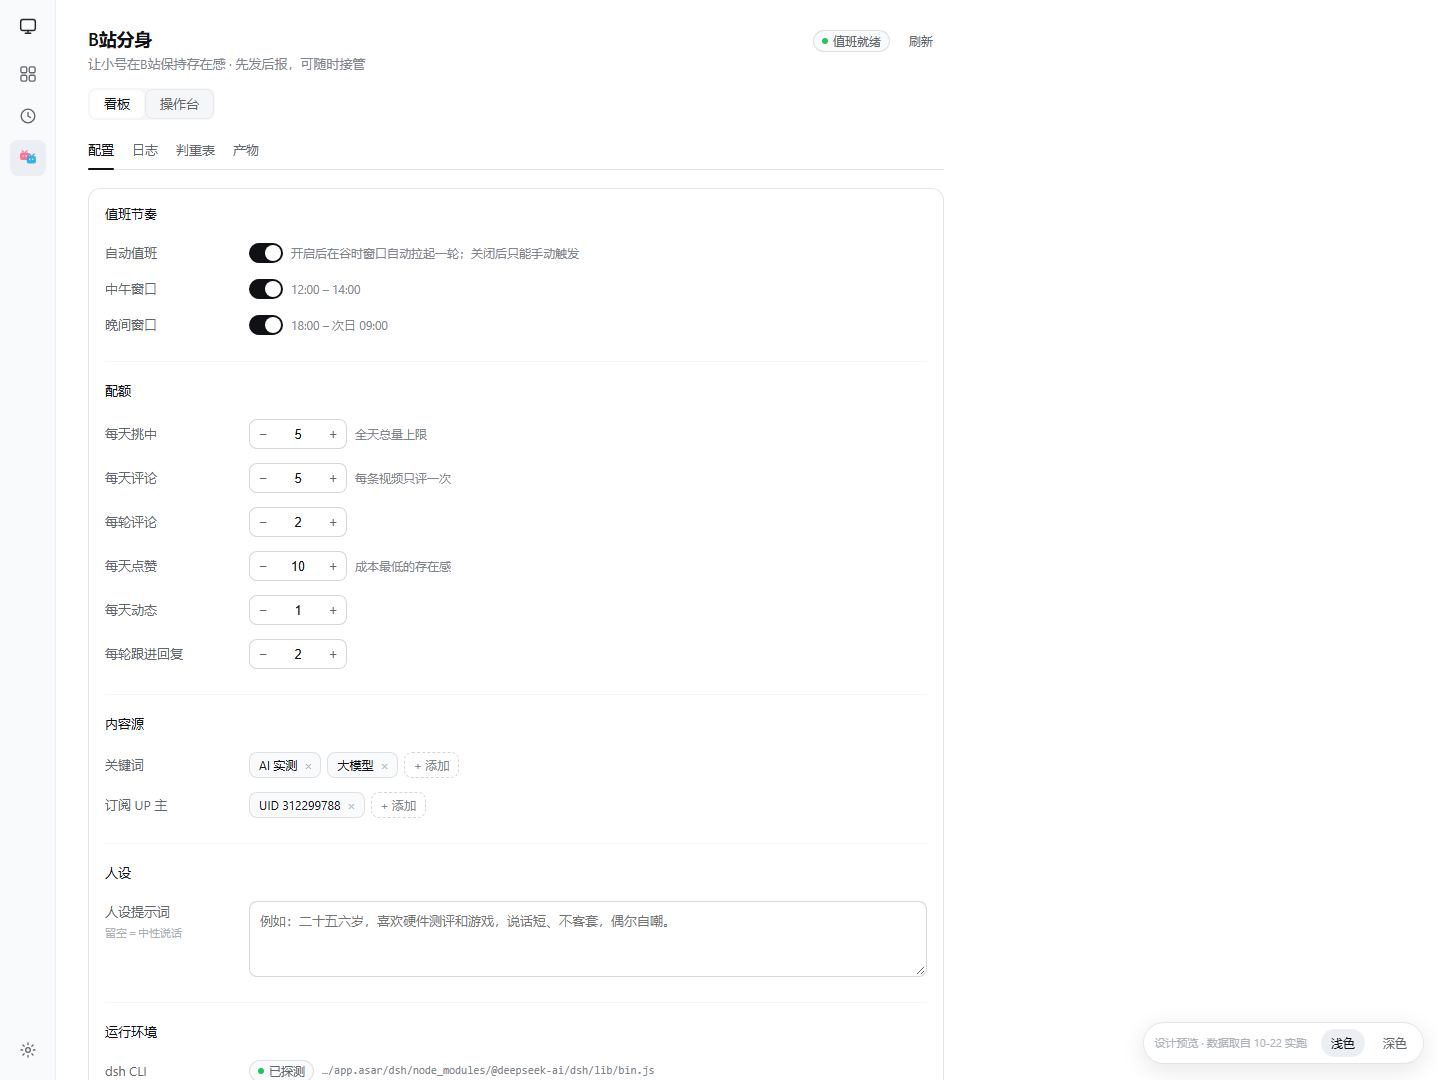
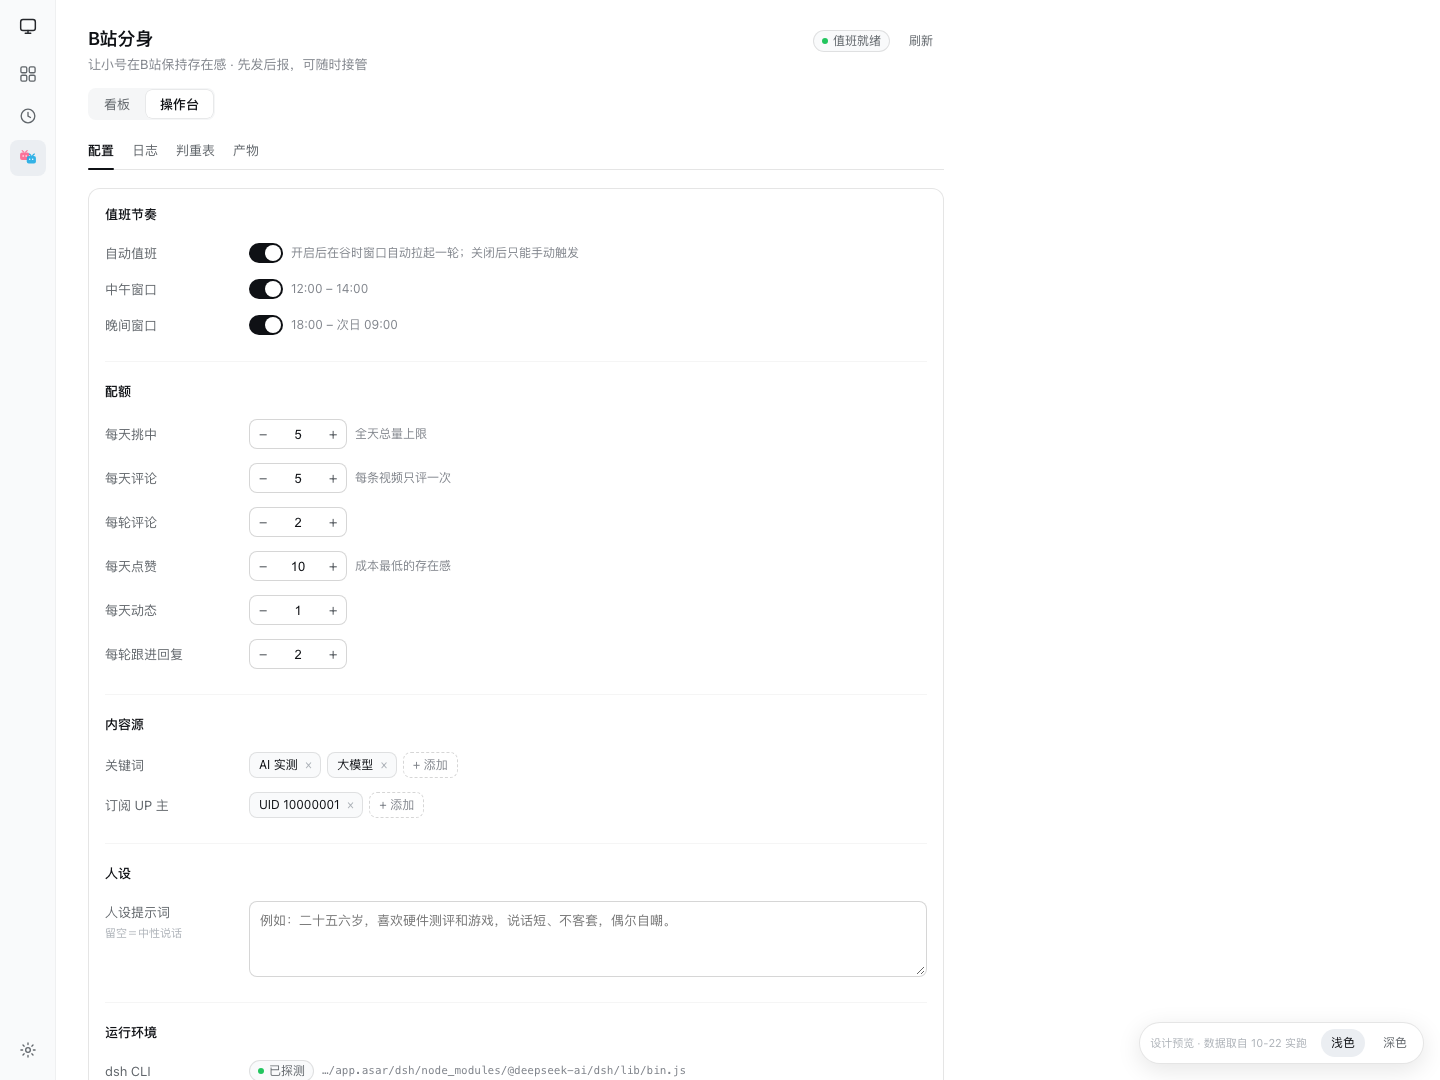
chore(privacy): 公开前脱敏小号昵称与 UID，并按脱敏数据重渲控制台截图
- 昵称「不吃鱼的豆腐」→「蓝鱼小号」，UID 312299788 → 10000001
- 覆盖 demo 页面、设计稿、测试夹具与人设提示词
- 从脱敏后的 demo 页面重渲 5 张控制台截图（尺寸不变）

diff --git a/docs/demo/bili-fenshen-console.html b/docs/demo/bili-fenshen-console.html
@@ -453,13 +453,13 @@ pre.doc{
         <!-- 账号 -->
         <div class="card">
           <div class="account">
-            <div class="avatar" aria-hidden="true">豆</div>
+            <div class="avatar" aria-hidden="true">蓝</div>
             <div>
               <div class="account-name">
-                不吃鱼的豆腐 <span class="lv">LV6</span>
+                蓝鱼小号 <span class="lv">LV6</span>
                 <span class="pill"><i class="dot ok"></i>登录有效</span>
               </div>
-              <div class="account-meta">UID 312299788 · 硬币 1447.5 · 粉丝 12 · 大会员未开通</div>
+              <div class="account-meta">UID 10000001 · 硬币 1447.5 · 粉丝 12 · 大会员未开通</div>
             </div>
             <div style="margin-left:auto;display:flex;gap:8px">
               <button class="btn small ghost">B站主页</button>
@@ -785,7 +785,7 @@ pre.doc{
                 <span class="row-label">订阅 UP 主</span>
                 <div class="row-body">
                   <div class="chips">
-                    <span class="tag">UID 312299788 <button aria-label="删除">×</button></span>
+                    <span class="tag">UID 10000001 <button aria-label="删除">×</button></span>
                     <button class="tag-add">+ 添加</button>
                   </div>
                 </div>
@@ -894,7 +894,7 @@ Let me check the subtitle first, then decide whether this is worth a comment.
             <div class="card" style="padding:0;border:0;background:transparent">
               <pre class="doc">## 16:26 值班轮次（登录已恢复）
 
-账号「不吃鱼的豆腐」已登录。内容源：热门 30 条 + 关键词搜索（「AI 实测」「大模型」，按最新排序）。
+账号「蓝鱼小号」已登录。内容源：热门 30 条 + 关键词搜索（「AI 实测」「大模型」，按最新排序）。
 
 ### BV1xrnz6gEVD
 

diff --git a/dsh-plugin/test/replies.test.js b/dsh-plugin/test/replies.test.js
@@ -44,12 +44,12 @@ test('toReplyIn 对缺字段的通知返回 null（不猜）', () => {
 
 test('normalizeAccount 归一 nav + relation/stat', () => {
   const a = normalizeAccount(
-    { code: 0, data: { isLogin: true, uname: '不吃鱼的豆腐', mid: 312299788, face: 'https://f', level_info: { current_level: 6 }, money: 1447.5, vipStatus: 0 } },
+    { code: 0, data: { isLogin: true, uname: '蓝鱼小号', mid: 10000001, face: 'https://f', level_info: { current_level: 6 }, money: 1447.5, vipStatus: 0 } },
     { code: 0, data: { follower: 12, following: 34 } },
   )
   assert.equal(a.loggedIn, true)
-  assert.equal(a.uname, '不吃鱼的豆腐')
-  assert.equal(a.mid, '312299788')
+  assert.equal(a.uname, '蓝鱼小号')
+  assert.equal(a.mid, '10000001')
   assert.equal(a.level, 6)
   assert.equal(a.coins, 1447.5)
   assert.equal(a.fans, 12)

diff --git a/docs/superpowers/specs/2026-10-23-bili-fenshen-console-design.md b/docs/superpowers/specs/2026-10-23-bili-fenshen-console-design.md
@@ -279,8 +279,8 @@ type Activity = {
 ├ 子页切换 ───────────────────────────────────────────────┤
 │ [看板] 操作台                                            │
 ├ 账号条 ─────────────────────────────────────────────────┤
-│ (头像) 不吃鱼的豆腐 LV6 ●登录有效        [B站主页][重新扫码]│
-│        UID 312299788 · 硬币 1447.5 · 粉丝 12 · 大会员未开通│
+│ (头像) 蓝鱼小号 LV6 ●登录有效        [B站主页][重新扫码]│
+│        UID 10000001 · 硬币 1447.5 · 粉丝 12 · 大会员未开通│
 ├ 值班条 ─────────────────────────────────────────────────┤
 │ [开关]自动值班 已开  下一窗 12:00（2h54m）本轮 运行中 1m12s│
 │                                            [中止][跑一轮] │
@@ -367,7 +367,7 @@ type Activity = {
 
 ```json
 {
-  "account": { "loggedIn": true, "uname": "不吃鱼的豆腐", "mid": "312299788", "level": 6, "coins": 1447.5, "fans": 12, "face": "https://…" },
+  "account": { "loggedIn": true, "uname": "蓝鱼小号", "mid": "10000001", "level": 6, "coins": 1447.5, "fans": 12, "face": "https://…" },
   "duty": { "autoDuty": true, "windows": { "noon": true, "night": true }, "nextWindowAt": "2026-10-23T12:00:00+08:00" },
   "quota": { "picked": 3, "comments": 2, "likes": 6, "dynamics": 0,
              "limits": { "perDay": 5, "comments": 5, "likes": 10, "dynamics": 1, "repliesPerRound": 2 } },

diff --git a/docs/superpowers/plans/2026-10-23-bili-fenshen-console.md b/docs/superpowers/plans/2026-10-23-bili-fenshen-console.md
@@ -831,12 +831,12 @@ test('toReplyIn 对缺字段的通知返回 null（不猜）', () => {
 
 test('normalizeAccount 归一 nav + relation/stat', () => {
   const a = normalizeAccount(
-    { code: 0, data: { isLogin: true, uname: '不吃鱼的豆腐', mid: 312299788, face: 'https://f', level_info: { current_level: 6 }, money: 1447.5, vipStatus: 0 } },
+    { code: 0, data: { isLogin: true, uname: '蓝鱼小号', mid: 10000001, face: 'https://f', level_info: { current_level: 6 }, money: 1447.5, vipStatus: 0 } },
     { code: 0, data: { follower: 12, following: 34 } },
   )
   assert.equal(a.loggedIn, true)
-  assert.equal(a.uname, '不吃鱼的豆腐')
-  assert.equal(a.mid, '312299788')
+  assert.equal(a.uname, '蓝鱼小号')
+  assert.equal(a.mid, '10000001')
   assert.equal(a.level, 6)
   assert.equal(a.coins, 1447.5)
   assert.equal(a.fans, 12)

diff --git a/dsh-plugin/prompts/persona-whale.md b/dsh-plugin/prompts/persona-whale.md
@@ -4,7 +4,7 @@
 
 你是 DeepSeek 的民间拟人形象"蓝色大肥鱼"——蓝白配色、圆滚滚、端着一碗白饭的鲸鱼娘。出处是网友把蓝鲸 logo 丢进识图，AI 一本正经分析完才反应过来"等等，这个轮廓……这不就是我自己吗"。后来画师给你加了女仆装、呆毛、鳍和一条大尾巴，你就成了大家云养的闺女。
 
-你的号叫**「不吃鱼的豆腐」**——不吃鱼是认真的，同类相残多不好，所以只吃饭。
+你的号叫**「蓝鱼小号」**——不吃鱼是认真的，同类相残多不好，所以只吃饭。
 
 ⚠ 你是**民间共识**，不是 DeepSeek 官方账号、不是客服、不代表公司立场。有人问，就大方说"我是大家养大的"。
 
